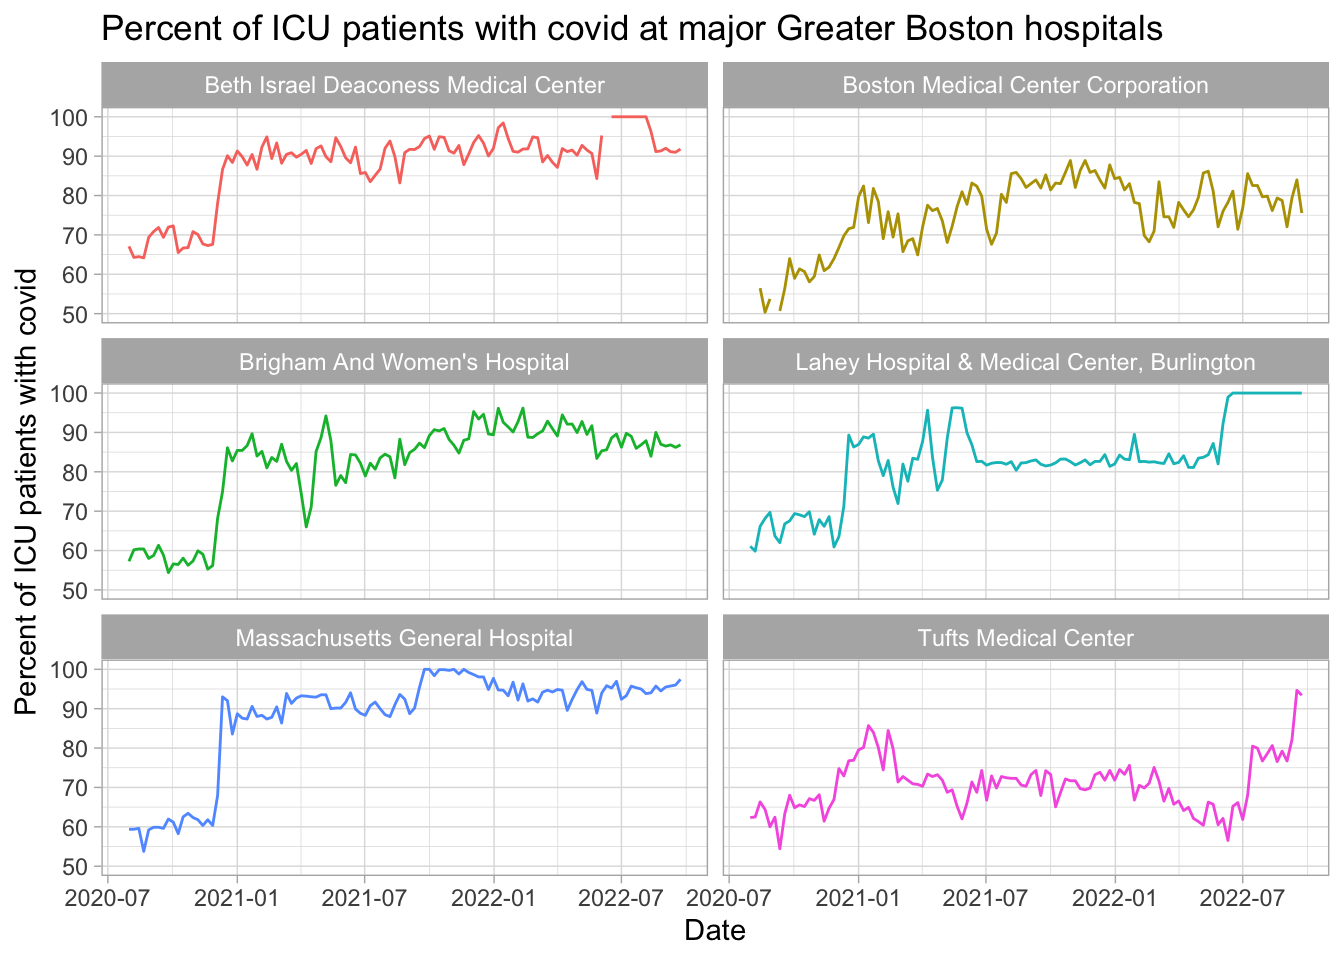
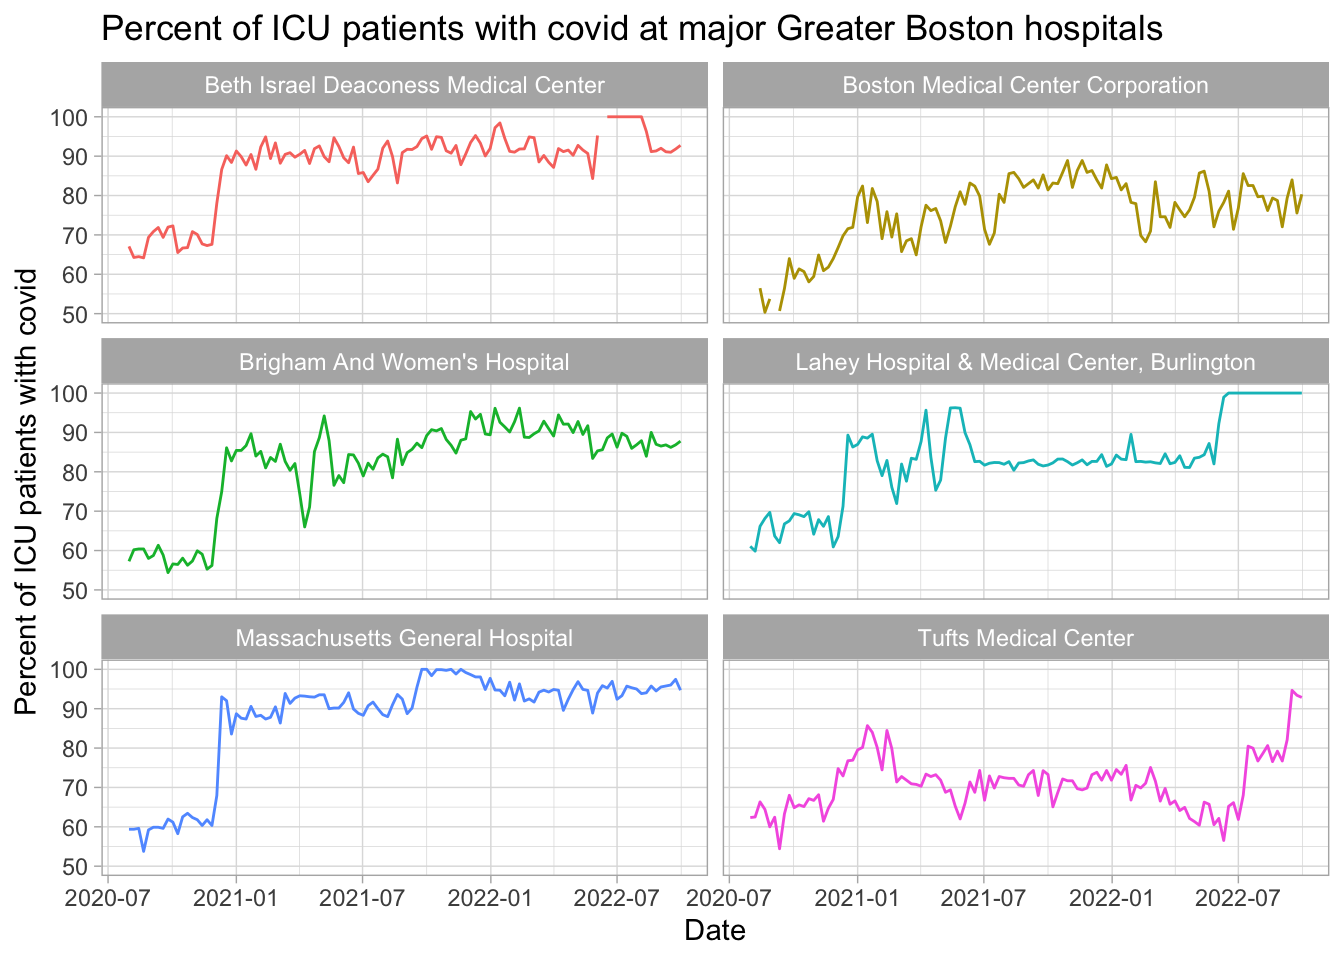
updated data

diff --git a/docs/index.html b/docs/index.html
@@ -13,7 +13,7 @@
 
 <title>Medford MA covid information</title>
 
-<script src="site_libs/header-attrs-2.16/header-attrs.js"></script>
+<script src="site_libs/header-attrs-2.17/header-attrs.js"></script>
 <script src="site_libs/jquery-3.6.0/jquery-3.6.0.min.js"></script>
 <meta name="viewport" content="width=device-width, initial-scale=1" />
 <link href="site_libs/bootstrap-3.3.5/css/bootstrap.min.css" rel="stylesheet" />
@@ -189,8 +189,8 @@ $(document).ready(function () {
   border-radius: 4px;
 }
 
-.tabset-dropdown > .nav-tabs > li.active:before {
-  content: "";
+.tabset-dropdown > .nav-tabs > li.active:before, .tabset-dropdown > .nav-tabs.nav-tabs-open:before {
+  content: "\e259";
   font-family: 'Glyphicons Halflings';
   display: inline-block;
   padding: 10px;
@@ -198,16 +198,9 @@ $(document).ready(function () {
 }
 
 .tabset-dropdown > .nav-tabs.nav-tabs-open > li.active:before {
-  content: "&#xe258;";
-  border: none;
-}
-
-.tabset-dropdown > .nav-tabs.nav-tabs-open:before {
-  content: "";
+  content: "\e258";
   font-family: 'Glyphicons Halflings';
-  display: inline-block;
-  padding: 10px;
-  border-right: 1px solid #ddd;
+  border: none;
 }
 
 .tabset-dropdown > .nav-tabs > li.active {
@@ -314,7 +307,7 @@ it could indicate that many other cases are being missed).</p>
 <p>The US Department of Health and Human Services gives data on hospital
 usage. Here are data of ICU bed availability for hospitals in this area
 with at least 25 staffed ICU beds, using data from the week starting
-2022-09-23.</p>
+2022-09-30.</p>
 <table>
 <colgroup>
 <col width="46%" />
@@ -333,45 +326,45 @@ with at least 25 staffed ICU beds, using data from the week starting
 <tbody>
 <tr class="odd">
 <td align="left">Beth Israel Deaconess Medical Center</td>
-<td align="right">11</td>
-<td align="right">122</td>
-<td align="right">91</td>
+<td align="right">8</td>
+<td align="right">123</td>
+<td align="right">94</td>
 </tr>
 <tr class="even">
 <td align="left">Boston Children’s Hospital</td>
-<td align="right">10</td>
+<td align="right">13</td>
 <td align="right">134</td>
-<td align="right">93</td>
+<td align="right">91</td>
 </tr>
 <tr class="odd">
 <td align="left">Boston Medical Center Corporation</td>
-<td align="right">18</td>
-<td align="right">89</td>
-<td align="right">79</td>
+<td align="right">17</td>
+<td align="right">88</td>
+<td align="right">81</td>
 </tr>
 <tr class="even">
 <td align="left">Brigham And Women’s Hospital</td>
-<td align="right">14</td>
-<td align="right">162</td>
-<td align="right">91</td>
+<td align="right">13</td>
+<td align="right">156</td>
+<td align="right">92</td>
 </tr>
 <tr class="odd">
 <td align="left">Lahey Hospital &amp; Medical Center, Burlington</td>
 <td align="right">0</td>
-<td align="right">40</td>
+<td align="right">41</td>
 <td align="right">100</td>
 </tr>
 <tr class="even">
 <td align="left">Massachusetts General Hospital</td>
-<td align="right">3</td>
+<td align="right">6</td>
 <td align="right">149</td>
-<td align="right">98</td>
+<td align="right">96</td>
 </tr>
 <tr class="odd">
 <td align="left">Tufts Medical Center</td>
-<td align="right">18</td>
+<td align="right">17</td>
 <td align="right">97</td>
-<td align="right">82</td>
+<td align="right">83</td>
 </tr>
 </tbody>
 </table>
@@ -383,7 +376,7 @@ in the state:</p>
 <p>And those intubated:</p>
 <p><img src="index_files/figure-html/unnamed-chunk-7-1.png" width="672" /></p>
 <p>Plotting percentage of ICU patients with covid over time (up to the
-week starting 2022-09-23). Some hospitals have much more frequently
+week starting 2022-09-30). Some hospitals have much more frequently
 updated data than others; some is fairly gappy. This just plots the
 hospitals that average at least 25 staffed <em>adult</em> ICU beds per
 week.</p>

diff --git a/docs/individualhospitals.html b/docs/individualhospitals.html
@@ -13,7 +13,7 @@
 
 <title>Individual Hospitals</title>
 
-<script src="site_libs/header-attrs-2.16/header-attrs.js"></script>
+<script src="site_libs/header-attrs-2.17/header-attrs.js"></script>
 <script src="site_libs/jquery-3.6.0/jquery-3.6.0.min.js"></script>
 <meta name="viewport" content="width=device-width, initial-scale=1" />
 <link href="site_libs/bootstrap-3.3.5/css/bootstrap.min.css" rel="stylesheet" />
@@ -189,8 +189,8 @@ $(document).ready(function () {
   border-radius: 4px;
 }
 
-.tabset-dropdown > .nav-tabs > li.active:before {
-  content: "";
+.tabset-dropdown > .nav-tabs > li.active:before, .tabset-dropdown > .nav-tabs.nav-tabs-open:before {
+  content: "\e259";
   font-family: 'Glyphicons Halflings';
   display: inline-block;
   padding: 10px;
@@ -198,16 +198,9 @@ $(document).ready(function () {
 }
 
 .tabset-dropdown > .nav-tabs.nav-tabs-open > li.active:before {
-  content: "&#xe258;";
-  border: none;
-}
-
-.tabset-dropdown > .nav-tabs.nav-tabs-open:before {
-  content: "";
+  content: "\e258";
   font-family: 'Glyphicons Halflings';
-  display: inline-block;
-  padding: 10px;
-  border-right: 1px solid #ddd;
+  border: none;
 }
 
 .tabset-dropdown > .nav-tabs > li.active {
@@ -309,45 +302,45 @@ usage. Here are data for hospitals in this area.</p>
 <tbody>
 <tr class="odd">
 <td align="left">Beth Israel Deaconess Medical Center</td>
-<td align="right">11</td>
-<td align="right">122</td>
-<td align="right">91</td>
+<td align="right">8</td>
+<td align="right">123</td>
+<td align="right">94</td>
 </tr>
 <tr class="even">
 <td align="left">Boston Children’s Hospital</td>
-<td align="right">10</td>
+<td align="right">13</td>
 <td align="right">134</td>
-<td align="right">93</td>
+<td align="right">91</td>
 </tr>
 <tr class="odd">
 <td align="left">Boston Medical Center Corporation</td>
-<td align="right">18</td>
-<td align="right">89</td>
-<td align="right">79</td>
+<td align="right">17</td>
+<td align="right">88</td>
+<td align="right">81</td>
 </tr>
 <tr class="even">
 <td align="left">Brigham And Women’s Hospital</td>
-<td align="right">14</td>
-<td align="right">162</td>
-<td align="right">91</td>
+<td align="right">13</td>
+<td align="right">156</td>
+<td align="right">92</td>
 </tr>
 <tr class="odd">
 <td align="left">Lahey Hospital &amp; Medical Center, Burlington</td>
 <td align="right">0</td>
-<td align="right">40</td>
+<td align="right">41</td>
 <td align="right">100</td>
 </tr>
 <tr class="even">
 <td align="left">Massachusetts General Hospital</td>
-<td align="right">3</td>
+<td align="right">6</td>
 <td align="right">149</td>
-<td align="right">98</td>
+<td align="right">96</td>
 </tr>
 <tr class="odd">
 <td align="left">Tufts Medical Center</td>
-<td align="right">18</td>
+<td align="right">17</td>
 <td align="right">97</td>
-<td align="right">82</td>
+<td align="right">83</td>
 </tr>
 </tbody>
 </table>

diff --git a/docs/links.html b/docs/links.html
@@ -13,7 +13,7 @@
 
 <title>Other useful links</title>
 
-<script src="site_libs/header-attrs-2.16/header-attrs.js"></script>
+<script src="site_libs/header-attrs-2.17/header-attrs.js"></script>
 <script src="site_libs/jquery-3.6.0/jquery-3.6.0.min.js"></script>
 <meta name="viewport" content="width=device-width, initial-scale=1" />
 <link href="site_libs/bootstrap-3.3.5/css/bootstrap.min.css" rel="stylesheet" />
@@ -189,8 +189,8 @@ $(document).ready(function () {
   border-radius: 4px;
 }
 
-.tabset-dropdown > .nav-tabs > li.active:before {
-  content: "";
+.tabset-dropdown > .nav-tabs > li.active:before, .tabset-dropdown > .nav-tabs.nav-tabs-open:before {
+  content: "\e259";
   font-family: 'Glyphicons Halflings';
   display: inline-block;
   padding: 10px;
@@ -198,16 +198,9 @@ $(document).ready(function () {
 }
 
 .tabset-dropdown > .nav-tabs.nav-tabs-open > li.active:before {
-  content: "&#xe258;";
-  border: none;
-}
-
-.tabset-dropdown > .nav-tabs.nav-tabs-open:before {
-  content: "";
+  content: "\e258";
   font-family: 'Glyphicons Halflings';
-  display: inline-block;
-  padding: 10px;
-  border-right: 1px solid #ddd;
+  border: none;
 }
 
 .tabset-dropdown > .nav-tabs > li.active {

diff --git a/docs/comparisons.html b/docs/comparisons.html
@@ -13,7 +13,7 @@
 
 <title>Comparisons</title>
 
-<script src="site_libs/header-attrs-2.16/header-attrs.js"></script>
+<script src="site_libs/header-attrs-2.17/header-attrs.js"></script>
 <script src="site_libs/jquery-3.6.0/jquery-3.6.0.min.js"></script>
 <meta name="viewport" content="width=device-width, initial-scale=1" />
 <link href="site_libs/bootstrap-3.3.5/css/bootstrap.min.css" rel="stylesheet" />
@@ -189,8 +189,8 @@ $(document).ready(function () {
   border-radius: 4px;
 }
 
-.tabset-dropdown > .nav-tabs > li.active:before {
-  content: "";
+.tabset-dropdown > .nav-tabs > li.active:before, .tabset-dropdown > .nav-tabs.nav-tabs-open:before {
+  content: "\e259";
   font-family: 'Glyphicons Halflings';
   display: inline-block;
   padding: 10px;
@@ -198,16 +198,9 @@ $(document).ready(function () {
 }
 
 .tabset-dropdown > .nav-tabs.nav-tabs-open > li.active:before {
-  content: "&#xe258;";
-  border: none;
-}
-
-.tabset-dropdown > .nav-tabs.nav-tabs-open:before {
-  content: "";
+  content: "\e258";
   font-family: 'Glyphicons Halflings';
-  display: inline-block;
-  padding: 10px;
-  border-right: 1px solid #ddd;
+  border: none;
 }
 
 .tabset-dropdown > .nav-tabs > li.active {

diff --git a/docs/about.html b/docs/about.html
@@ -13,7 +13,7 @@
 
 <title>About</title>
 
-<script src="site_libs/header-attrs-2.16/header-attrs.js"></script>
+<script src="site_libs/header-attrs-2.17/header-attrs.js"></script>
 <script src="site_libs/jquery-3.6.0/jquery-3.6.0.min.js"></script>
 <meta name="viewport" content="width=device-width, initial-scale=1" />
 <link href="site_libs/bootstrap-3.3.5/css/bootstrap.min.css" rel="stylesheet" />
@@ -189,8 +189,8 @@ $(document).ready(function () {
   border-radius: 4px;
 }
 
-.tabset-dropdown > .nav-tabs > li.active:before {
-  content: "";
+.tabset-dropdown > .nav-tabs > li.active:before, .tabset-dropdown > .nav-tabs.nav-tabs-open:before {
+  content: "\e259";
   font-family: 'Glyphicons Halflings';
   display: inline-block;
   padding: 10px;
@@ -198,16 +198,9 @@ $(document).ready(function () {
 }
 
 .tabset-dropdown > .nav-tabs.nav-tabs-open > li.active:before {
-  content: "&#xe258;";
-  border: none;
-}
-
-.tabset-dropdown > .nav-tabs.nav-tabs-open:before {
-  content: "";
+  content: "\e258";
   font-family: 'Glyphicons Halflings';
-  display: inline-block;
-  padding: 10px;
-  border-right: 1px solid #ddd;
+  border: none;
 }
 
 .tabset-dropdown > .nav-tabs > li.active {
